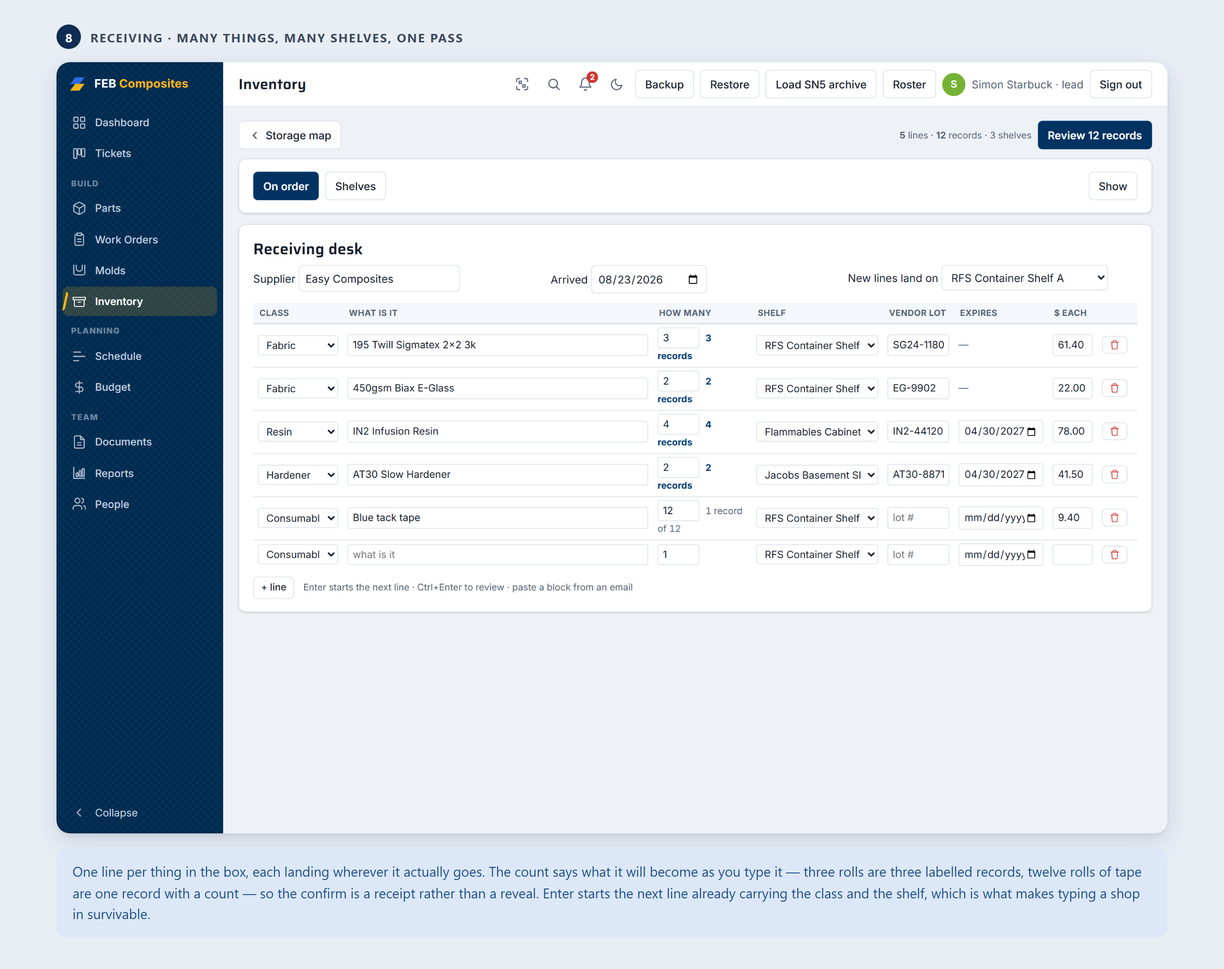
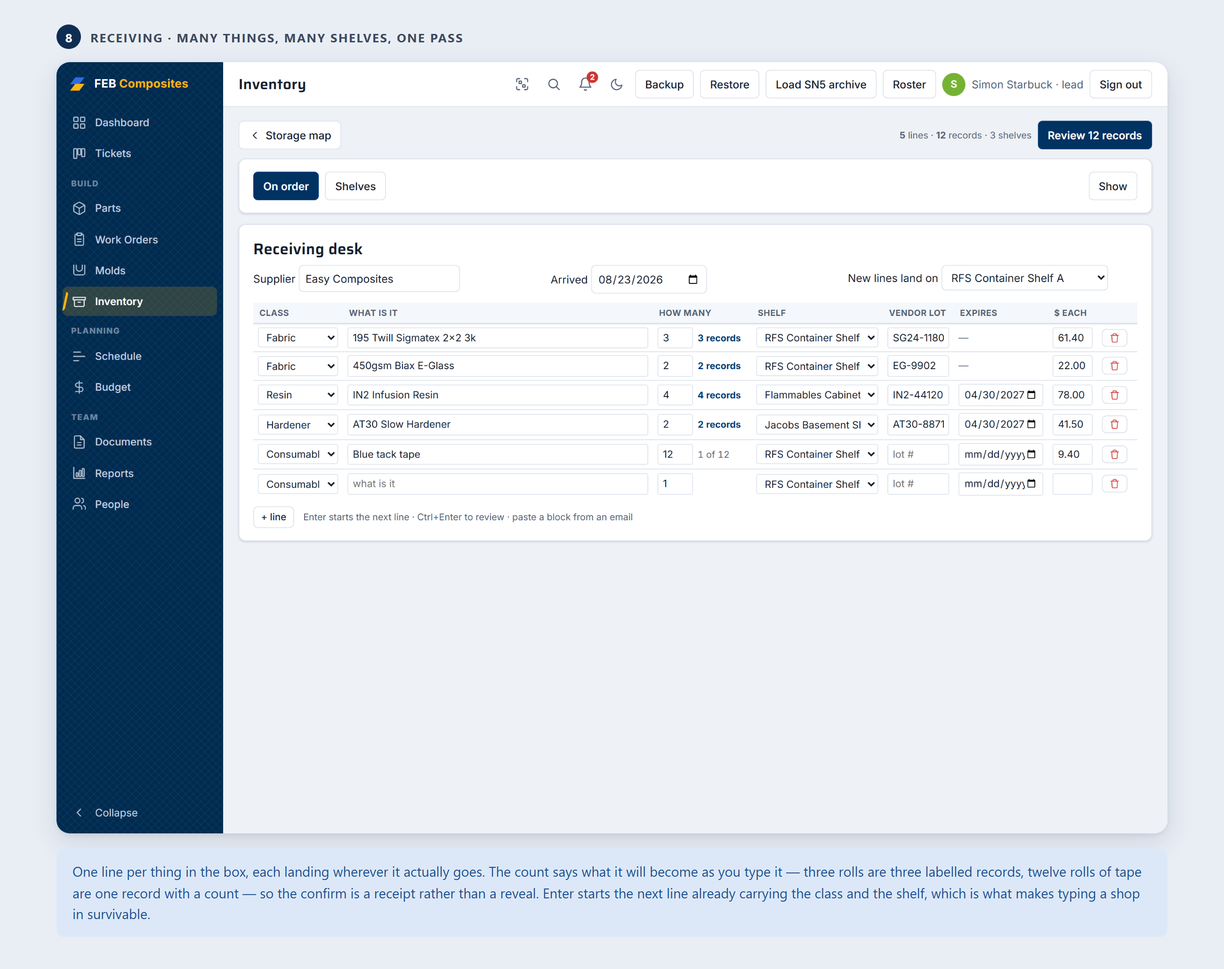
Storage map owns locations; every shelf is a card; HOW MANY fits one line
Four things Simon reported, three of them the same underlying mistake: the map
was showing less than it knew.

**Adding a location moved to the storage map.** + Location sat on all four
Inventory views, which put "make a new shelf" on the items list — a page about
what is stored, not about where — and made it just another button on the map
rather than what the map is for. It is now the map's primary action and appears
nowhere else. The items list says where locations are added instead of offering
a button that would strand you on the wrong page afterwards; the mechanism is a
`newOn` flag on the SHOP class spec, so this is a property of the class rather
than a special case for BIN.

**Every location is a card, and clicking anywhere on it opens the shelf.**
Empty shelves collapsed into a one-line text strip, on the argument that an
empty recently-walked shelf is a fact rather than a card. It cost more than it
saved. The map is the picture of the shop, and a shelf you cannot see on it is
a shelf you forget you own — and the strip was the one place on the page where
clicking the row did nothing, since only the name itself was a target. That is
why "click a location to see its contents" felt broken: on cards it always
worked (verified with elementFromPoint at the card's corners and centre), it
was the strip that did not. Empty shelves are quieter cards now — inset
surface, no shadow — never hidden, and their site header counts them.
[…]

Changed region(s): [[0.2181, 0.3421, 0.9346, 0.5909]]

diff --git a/03 App/app/inventory.js b/03 App/app/inventory.js
@@ -475,13 +475,13 @@ function invCard(bin, bucket) {
      stretched over the whole card by its ::after, and Confirm as a SIBLING
      sitting above it on the z-axis. Two real buttons, both tab-reachable, both
      announced, and no stopPropagation anywhere. */
-  return `<div class="loccard ${alert ? "alert" : ""}" title="${esc(bin.id)}">
+  return `<div class="loccard ${alert ? "alert" : ""} ${n ? "" : "isempty"}" title="${esc(bin.id)}">
     ${warns.map(w => `<div class="lc-warn ${w.cls}">${icon("warning", 12)} ${esc(w.text)}</div>`).join("")}
     <div class="lc-hd">
       <button class="lc-open lc-name" onclick="selectInvRec('${esc(bin.id)}')">${esc(bin.name || bin.id)}</button>
       ${bin.locKind ? `<span class="kind">${esc(bin.locKind)}</span>` : ""}
       ${bin.flam === "Yes" ? `<span class="kind lc-flam" title="Rated for flammables">◆ flam</span>` : ""}</div>
-    <div class="lc-body">${n ? parts.map(([c, l]) => `<span>${c} ${l}</span>`).join(" · ") : '<span class="muted">empty</span>'}</div>
+    <div class="lc-body">${n ? parts.map(([c, l]) => `<span>${c} ${l}</span>`).join(" · ") : '<span class="muted">nothing on it</span>'}</div>
     ${age != null && age <= INV_WALK_STALE_DAYS ? "" :
       `<div class="lc-foot tny muted">${age == null ? "contents never confirmed" : `walked ${age}d ago ⚠`}</div>`}
     <button class="sm lc-act no-print" onclick="invConfirmContents('${esc(bin.id)}')">${icon("check", 13)} Confirm</button>
@@ -515,15 +515,25 @@ function renderInvMap() {
     if (d > INV_WALK_STALE_DAYS) return 2;
     return 3;
   };
+  /* Within one rank, a shelf with something on it comes first. Emptiness is
+     not an attention state — an unwalked empty shelf still needs walking — so
+     it breaks ties rather than overriding the rank, which keeps every shelf on
+     the map without letting a row of empties push the substantive ones down. */
+  const isEmpty = (b) => invBucketCount(idx.by.get(b.id) || invEmptyBucket()) === 0;
   for (const arr of bySite.values()) {
-    arr.sort((a, b) => rank(a) - rank(b) || String(a.name || a.id).localeCompare(String(b.name || b.id)));
+    arr.sort((a, b) => rank(a) - rank(b)
+      || (isEmpty(a) ? 1 : 0) - (isEmpty(b) ? 1 : 0)
+      || String(a.name || a.id).localeCompare(String(b.name || b.id)));
   }
-  /* An empty, recently walked shelf is a fact, not a card. In a real shop this
-     is over half the list, and it costs one line instead of a grid cell each. */
-  const quiet = (s) => bySite.get(s).filter(b => {
-    const d = invDaysSince(b.walkedAt);
-    return invBucketCount(idx.by.get(b.id) || invEmptyBucket()) === 0 && d != null && d <= INV_WALK_STALE_DAYS;
-  });
+  /* Empty shelves used to collapse into a one-line text strip, on the argument
+     that an empty recently-walked shelf is a fact rather than a card. It cost
+     more than it saved. The map is the picture of the shop, and a shelf you
+     cannot see on it is a shelf you forget you own — which is the opposite of
+     what a storage map is for. The strip was also the one place on this page
+     where clicking the row did nothing: only the name itself was a target, so
+     "click a shelf to see what is on it" stopped being true halfway down.
+     Every location is a card. An empty one is quieter, not hidden. */
+  const emptyCount = (s) => bySite.get(s).filter(isEmpty).length;
 
   const filtering = !!(q || flag);
   return `
@@ -542,12 +552,13 @@ function renderInvMap() {
     : !bins.length
     ? `<div class="card">Nothing matches${q ? ` “${esc(view.q)}”` : ""}${flag ? " and that filter" : ""}. <b>${all.length}</b> locations in total.</div>`
     : siteOrder.map(s => {
-        const shown = bySite.get(s).filter(b => !quiet(s).includes(b));
+        const rows = bySite.get(s);
+        const nEmpty = emptyCount(s);
         return `<div class="inv-site">
-          <div class="pgrouphd"><span class="pg-name">${esc(s)}</span><span class="pg-n">${bySite.get(s).length} location${bySite.get(s).length === 1 ? "" : "s"}</span></div>
-          <div class="locgrid">${shown.map(b => invCard(b, idx.by.get(b.id) || invEmptyBucket())).join("")}</div>
-          ${quiet(s).length ? `<div class="locempty"><span class="le-lab">empty</span>${quiet(s).map(b =>
-            `<button class="lc-open" onclick="selectInvRec('${esc(b.id)}')">${esc(b.name || b.id)}</button>`).join("")}</div>` : ""}
+          <div class="pgrouphd"><span class="pg-name">${esc(s)}</span>
+            <span class="pg-n">${rows.length} location${rows.length === 1 ? "" : "s"}</span>
+            ${nEmpty ? `<span class="pg-n">${nEmpty} empty</span>` : ""}</div>
+          <div class="locgrid">${rows.map(b => invCard(b, idx.by.get(b.id) || invEmptyBucket())).join("")}</div>
         </div>`;
       }).join("")}`;
 }
@@ -567,14 +578,20 @@ function invNowhereBar(idx) {
   </div>`;
 }
 
+/* Each view's primary action is the thing that view is ABOUT. + Location used
+   to sit on all four, which put "make a new shelf" on the items list — a page
+   about what is stored, not about where — and left the map, which is the
+   picture of the shelves, without it. Simon: "it makes more sense to have
+   adding locations being on the storage map page." */
 function invToolbar(active) {
   const seg = (id, label) => `<button class="ib ${active === id ? "primary" : ""}" ${active === id ? "" : `onclick="view.invView='${id}';view.mode='list';view.id=null;render()"`}>${label}</button>`;
+  const primary = active === "boards" ? `<button class="primary ib" onclick="newBoard()">+ Board</button>`
+    : active === "map" ? `<button class="primary ib" onclick="newShopRec('items','BIN')">+ Location</button>`
+    : "";
   return `<div class="toolbar no-print">
     ${seg("map", "Storage map")}${seg("items", "Items list")}${seg("lots", "Materials list")}${seg("boards", "Boards")}
     <span style="flex:1"></span>
-    ${active === "boards" ? `<button class="primary ib" onclick="newBoard()">+ Board</button>
-    <button class="ib" onclick="newShopRec('items','BIN')">+ Location</button>`
-      : `<button class="primary ib" onclick="newShopRec('items','BIN')">+ Location</button>`}
+    ${primary}
     <button class="ib" onclick="invReceive('')">${icon("plus", 15)} Receive a delivery</button>
     ${rxResumeChip()}
     <button class="ib" onclick="openLabelBuilder('items')">${icon("print", 15)} Labels</button>

diff --git a/03 App/app/index.html b/03 App/app/index.html
@@ -1713,12 +1713,13 @@
   /* A shelf with something wrong on it leads with what is wrong, and wears a
      spine so it is findable in a grid without reading every card. */
   .loccard.alert { border-left: 3px solid var(--bad); }
-  .locempty { display: flex; flex-wrap: wrap; align-items: center; gap: 6px 14px; padding: 2px 2px 14px;
-    font-size: 12.5px; color: var(--muted); }
-  .locempty .le-lab { font-size: 11px; font-weight: 800; letter-spacing: .05em; text-transform: uppercase; }
-  .locempty .lc-open { font-weight: 500; font-size: 12.5px; color: var(--muted); }
-  .locempty .lc-open::after { position: static; }
-  .locempty .lc-open:hover { color: var(--brand-ink); text-decoration: underline; }
+  /* An empty shelf is quieter than a full one, but it is still a card and still
+     the same click target. It used to collapse into a text strip, which hid the
+     shelves you most need to be reminded you own and broke "click a location to
+     see what is on it" — only the name was hittable there. */
+  .loccard.isempty { background: var(--surface-2); box-shadow: none; }
+  .loccard.isempty .lc-name { font-weight: 600; }
+  .loccard.isempty:hover { background: var(--card); }
   .inv-nowhere-bar { display: flex; align-items: center; gap: 10px; flex-wrap: wrap; padding: 10px 14px;
     margin: 10px 0 4px; border-radius: var(--r-md); border: 1px dashed var(--warn-border);
     background: var(--warn-bg); color: var(--ink); }
@@ -1756,8 +1757,14 @@
   /* The count and what it will become share one cell. A column of its own read
      "1 record" on nine rows in ten — ink spent on something that does not vary
      across rows — and it cost 100px the material name needed more. */
-  .rxgrid .rxc-qty { width: 128px; }
-  .rxgrid .rxc-qty input { width: 54px; margin-right: 8px; }
+  /* The count and its readout share one line. Two things make that fit without
+     the column reclaiming width the material name needs: the readout is kept
+     short ("1 of 3", not "1 record of 3"), and the input is sized for the three
+     digits a delivery line actually carries rather than for a paragraph. The
+     nowrap is what stops the span dropping to a second line — it broke between
+     the input and the text, which is how "3 / 1 record / of 3" happened. */
+  .rxgrid .rxc-qty { width: 128px; white-space: nowrap; }
+  .rxgrid .rxc-qty input { width: 46px; margin-right: 6px; }
   .rxgrid .rxc-bin { width: 170px; }
   .rxgrid .rxc-vendorLot { width: 92px; }
   .rxgrid .rxc-expiresOn { width: 122px; }
@@ -1779,10 +1786,13 @@
      one record, because one line making one record is not news; brand ink the
      moment it diverges, because that IS the news and it is exactly what the
      confirm is about to ask you to approve. */
-  /* Wraps under the count input in a narrow cell rather than propping the
-     column open — "1 record of 12" was single-handedly costing 50px of the
-     material name's width on every row. */
-  .rx-fan { font-size: 12px; color: var(--muted); font-variant-numeric: tabular-nums; }
+  /* Sits BESIDE the count input, always on one line. The column stays narrow
+     on purpose — a wide one costs the material name 50px on every row — so the
+     readout is kept short enough to fit ("1 of 3", not "1 record of 3") and
+     told never to wrap. It wrapped before, and a three-line cell reading
+     "3 / 1 record / of 3" looks broken rather than informative. */
+  .rx-fan { font-size: 12px; color: var(--muted); font-variant-numeric: tabular-nums;
+    white-space: nowrap; }
   .rx-fan.many { color: var(--brand-ink); font-weight: 700; }
   .rx-na { color: var(--faint); }
   .rxgrid tr:focus-within td { background: var(--hover); }
@@ -2587,7 +2597,6 @@
   /* Touch devices get larger tap targets regardless of width. */
   @media (pointer: coarse) {
     .lc-open { min-height: 40px; display: inline-flex; align-items: center; }
-    .locempty .lc-open { min-height: 40px; }
     button, .icon-btn, .hamburger { min-height: 40px; }
     .mtxcell { min-height: 40px; min-width: 40px; }
     /* A rail row is a div[onclick]. A short work-order name over one meta line

diff --git a/03 App/app/receiving.js b/03 App/app/receiving.js
@@ -207,6 +207,7 @@ function rxPaintFan(rid, r) {
   const el = document.getElementById("rxf-" + rid);
   if (!el) return;
   el.textContent = rxFanText(r);
+  el.title = rxFanTitle(r);
   el.className = "rx-fan" + (rxRecordCount(r).records > 1 && rxFanText(r) ? " many" : "");
 }
 function rxRefresh(rid) {
@@ -496,11 +497,29 @@ function rxGridHtml(cols) {
   </table>`;
 }
 
+/* The readout has to fit BESIDE the count input, on one line, in a cell
+   deliberately kept narrow so the material name keeps its width. "1 record of
+   12" did not: it wrapped to three lines and the column read as broken rather
+   than as information. Short forms, and the long sentence moves to the title. */
 function rxFanText(r) {
   if (!String(r.name || "").trim()) return "";   // an unnamed line makes nothing, and should not say otherwise
   const { records, count } = rxRecordCount(r);
   if (rxIsTracked(r.cls)) return records === 1 ? "1 record" : records + " records";
-  return count === "" || Number(count) === 1 ? "1 record" : "1 record of " + count;
+  return count === "" || Number(count) === 1 ? "1 record" : "1 of " + count;
+}
+/* What the short form means, spelled out for hover and for screen readers —
+   "1 of 3" is compact, not self-explaining. */
+function rxFanTitle(r) {
+  if (!String(r.name || "").trim()) return "";
+  const { records, count } = rxRecordCount(r);
+  if (rxIsTracked(r.cls)) {
+    return records === 1
+      ? "One record: this class is tracked one container per record."
+      : `${records} records, one per container: this class is tracked one container per record.`;
+  }
+  return count === "" || Number(count) === 1
+    ? "One record."
+    : `One record carrying a count of ${count}.`;
 }
 
 function rxRowHtml(r, cols) {
@@ -515,7 +534,7 @@ function rxRowHtml(r, cols) {
         aria-label="What is it" onpaste="rxPaste(event,'${r.rid}')"
         onchange="rxUpd('${r.rid}','name',this.value)">`,
     qty: `<input id="rxq-${r.rid}" class="bl-n" inputmode="numeric" value="${esc(r.qty)}" aria-label="How many"
-        oninput="rxLive('${r.rid}')" onchange="rxUpd('${r.rid}','qty',this.value)"><span class="rx-fan ${many ? "many" : ""}" id="rxf-${r.rid}">${esc(rxFanText(r))}</span>`,
+        oninput="rxLive('${r.rid}')" onchange="rxUpd('${r.rid}','qty',this.value)"><span class="rx-fan ${many ? "many" : ""}" id="rxf-${r.rid}" title="${esc(rxFanTitle(r))}">${esc(rxFanText(r))}</span>`,
     bin: `<select id="rxbin-${r.rid}" aria-label="Shelf" onchange="rxUpd('${r.rid}','bin',this.value)">
         <option value="">— none yet —</option>
         ${invActiveBins().map(b => `<option value="${esc(b.id)}" ${r.bin === b.id ? "selected" : ""}>${esc(b.name || b.id)}</option>`).join("")}

diff --git a/03 App/app/shop.js b/03 App/app/shop.js
@@ -76,7 +76,11 @@ const SHOP = {
     classes: [
       { cls: "PNL", label: "Test panel", stage: PNL_STAGE },
       { cls: "JIG", label: "Jig / fixture", stage: ["In use", "Stored", "Retired"] },
-      { cls: "BIN", label: "Storage location", stage: ["Active", "Retired"] },
+      /* newOn: a shelf is created from the storage map, which is the picture of
+         the shelves, not from the list of what is stored on them. The class
+         still exists here — BIN records live in `items`, they filter and list
+         and open like any other — it is only the + button that moves. */
+      { cls: "BIN", label: "Storage location", stage: ["Active", "Retired"], newOn: "inventory map" },
     ],
     stage: { key: "stage", vals: null },   // per class
     list: ["name", "cls", "stage", "location", "laidOn"],
@@ -339,7 +343,15 @@ function renderShopList(tab) {
     ${tiles.map(([n, lab]) => `<div class="stat-tile"><div class="bignum">${n}</div><div class="stat-label">${esc(lab)}</div></div>`).join("")}
   </div>
   <div class="toolbar no-print">
-    ${classes.map(c => `<button class="${c === classes[0] ? "primary" : ""}" onclick="newShopRec('${tab}','${c.cls}')">+ ${esc(c.label)}</button>`).join("")}
+    ${(() => {
+      /* A class whose records are created somewhere better than this list says
+         so instead of offering a button that would strand the user on the wrong
+         page afterwards. */
+      const addable = classes.filter(c => !c.newOn);
+      return addable.map((c, i) => `<button class="${i === 0 ? "primary" : ""}" onclick="newShopRec('${tab}','${c.cls}')">+ ${esc(c.label)}</button>`).join("")
+        + classes.filter(c => c.newOn).map(c =>
+          `<span class="muted tny">${esc(c.label)}s are added on the ${esc(c.newOn)}.</span>`).join("");
+    })()}
     ${D.length ? `<button class="ib" onclick="openLabelBuilder('${spec.coll}')">${icon("print", 15)} Labels</button>` : ""}
   </div>
   <div class="filters no-print">

diff --git a/README.md b/README.md
@@ -60,7 +60,7 @@ up top, then Build, Planning, and Team):
 - **Work Orders:** the manufacturing traveler, as a split view like Parts and Molds. The rail indexes every run grouped by the part it builds, so the tab reads as the part → run → mold hierarchy; each row carries how far through its buy-offs it is, and whether it is blocked or curing. Parts nobody has started show up too, with the button that starts one. Group, sort and filter are yours to set. The pane keeps the whole record in one scroll, Steps first because that is the bench action, but each section is its own card now, headed by a gold-slashed label carrying the same count and attention word the jump bar shows. A hero band under the title answers the five questions people come for: status as a colored dropdown (no edit mode needed), a steps progress bar, due date, mass actual against target, and the engineers' faces. Blockers and cure holds finally look different (a blocker is a person, amber; a hold is the clock, slate), signed steps compress to one line with their history a tap away, and the next step to act on wears a gold NOW badge and the page's only loud buy-off button. Photos are a first-class record: every step row has a camera button and a thumb strip, a Photos section collects everything on the record grouped by step, and declining "sign without a photo?" opens the camera and finishes the buy-off once the photo lands. Reference blocks (BOM, event log) fold behind counted summaries; quality and files fold only when empty; the note thread lives in its own card. Layup stack, BOM, step buy-offs stamped with who signed, blocker steps, and enforced cure holds backed by the datasheets in `resins.js`. Prints to a hand-fillable sheet that is always exactly two pages.
 - **Parts:** the season tracker as a split view: every part down the left, the selected one beside it, each stage a row of steps you click. Arrow keys walk the list; `1`/`2`/`3` advance the stages.
 - **Molds:** a split view of every mold, the rail grouped by the stage each one is at so it reads as the pipeline it is. A mold carries stage, home location, sealing record and parts pulled, plus its mold file — the stack plan it is cut from, with the plans it superseded still openable and marked as such. The mold file is genuinely part of the mold: the rotatable 3D view of the mold sitting inside its stock, the exploded stack and the blanks table are all on the mold's own page rather than a click away on a separate plan record. Only a plan with no mold to be reached through gets a row of its own. One "+ Mold" button covers planning from an STL, from typed dimensions, or recording a mold that has no CAD yet. With nothing selected the pane adds "Needs a hand": molds with no home location, molds machined with no stack plan on file, plans carrying a slicer warning nobody has read, and plans with no mold. Board grade is typed rather than picked from a list, because the rack has always held sheets outside the 30/60 pcf catalogue. The drawing set is a general view (assembled stock with the mold hatched inside it and waterline section contours, plus a mold-only inset), a third-angle three-view, and one placement sheet per board. The planner takes a mold STL, picks boards, splits at the ShopSabre depth limit, prints a numbered cut list, and creates the mold record at "Designed". Blanks are sawn to whole half-inch increments so a person with a tape can cut them, which also puts every cut position on an eighth-inch mark. The cut list opens the board that costs least, scoring both the material spent and the option value destroyed: a big board is the only thing that can hold a big blank, so spending one on small blanks is charged for. When the sawdust settles, "Mark these boards cut" executes the list: cut boards leave the rack, every reusable offcut goes back on it as a new board row with its provenance, and one Undo restores the exact rack.
-- **Inventory:** the storage map, and the shop's answer to "where is the 195 twill". One card per shelf, rack and bin, grouped by site, each showing what is on it and what is wrong with it — expired lots, resin and hardener together, flammables outside the rated cabinet. Search matches a shelf on what is ON it, so a material name leaves the shelves that have some; cards sort so that what is wrong comes first, and the monthly stock walk is one click from the card. Beside the map are three flat lists: items, materials, and **boards** — the tooling rack, one row per size since a board is its length, width, thickness and density, grouped by grade because that is the one axis the packer refuses to substitute across. The individual board records, and their printed labels, are one click deeper. **Receiving** is a page rather than a dialog: a spreadsheet-shaped sheet where a mixed order goes onto many different shelves in one pass, quantity fans out by class as you type (three rolls become three labelled records, a box of tape becomes one with a count), and the CS-011 §6 chemical checks run before anything is written. **Running out** is measured per material rather than per jug — which is what finally makes "we are completely out of MEKP" something the app can say — and turns into a Restock purchase that cancels its own reorder row when the delivery lands. Everything exports to CSV or straight onto the clipboard for a Google Sheet.
+- **Inventory:** the storage map, and the shop's answer to "where is the 195 twill". One card per shelf, rack and bin, grouped by site, each showing what is on it and what is wrong with it — expired lots, resin and hardener together, flammables outside the rated cabinet. Search matches a shelf on what is ON it, so a material name leaves the shelves that have some; cards sort so that what is wrong comes first, clicking anywhere on a card opens that shelf, and the monthly stock walk is one click from the card. Every location shows on the map — an empty shelf is a quieter card, not a hidden one — and new shelves are added here rather than from the items list. Beside the map are three flat lists: items, materials, and **boards** — the tooling rack, one row per size since a board is its length, width, thickness and density, grouped by grade because that is the one axis the packer refuses to substitute across. The individual board records, and their printed labels, are one click deeper. **Receiving** is a page rather than a dialog: a spreadsheet-shaped sheet where a mixed order goes onto many different shelves in one pass, quantity fans out by class as you type (three rolls become three labelled records, a box of tape becomes one with a count), and the CS-011 §6 chemical checks run before anything is written. **Running out** is measured per material rather than per jug — which is what finally makes "we are completely out of MEKP" something the app can say — and turns into a Restock purchase that cancels its own reorder row when the delivery lands. Everything exports to CSV or straight onto the clipboard for a Google Sheet.
 - **Schedule:** the production schedule, two views behind a toggle: the season as a station-by-week grid ("when is the ShopSabre free" is one horizontal scan) and the week by day, subteam and person.
 - **Budget:** purchases through Submitted, Ordered and Reimbursed, with a receipt-scan button on phones.
 - **Documents:** datasheets, CS standards and printables in one filterable shelf, plus pinned Google Docs. Paste a Drive URL anywhere in the app and it resolves the title and offers a preview, with no Google sign-in.

diff --git a/SESSION-STATE.md b/SESSION-STATE.md
@@ -20,10 +20,9 @@ git log -p --follow -- SESSION-STATE.md
 
 ## Now
 
-**Unshipped: everything since `50cadbe`.** The Molds/Inventory pass and the
-stat-tile/design-sync follow-ups are all committed to main and **not deployed**
-at time of writing. Check whether a later Recent log entry says otherwise
-before assuming live matches main. Suites were green at each commit.
+**Live matches main.** The Molds/Inventory pass, the stat-tile states and the
+Inventory/Receiving follow-ups are all on main and deployed, each verified by
+curling the changed file off the live host rather than trusting the CLI.
 
 - Density is free entry through `canonDensity()` in `core.js`, not a `<select>`.
   Board and plan density stay numbers, mold density stays a string,
@@ -39,6 +38,17 @@ before assuming live matches main. Suites were green at each commit.
 - `.bignum` now carries `.bad`/`.warn`/`.ok` states in both the app CSS and
   `components.css`, mirroring the dashboard's `.bnum` so one word means one
   colour everywhere. The style guide was rebuilt and the design sync ran.
+- **Every storage location is a card on the map**, empty ones included — the
+  collapsed `.locempty` strip is gone. It hid the shelves you most need
+  reminding you own, and it was the one place on that page where clicking the
+  row did nothing. `+ Location` moved off the items list onto the map; the
+  `newOn` flag in a SHOP class spec is what suppresses a class's + button on a
+  list and names where it lives instead.
+- The receiving desk's HOW MANY readout shares one line with its input.
+  It must stay short — "1 of 3", not "1 record of 3" — because the column is
+  deliberately narrow to protect the material-name width, and `test_receiving_ui`
+  fails below a 150px name input at 1201px. Widening that column is what breaks
+  it; the space came out of an oversized count input instead.
 
 **Open finding, reported not done: 25 documented classes have no rules behind
 them.** Validating `conventions.md` against the built CSS turned up the whole
@@ -234,6 +244,12 @@ They are built and tested against the emulator.
 
 Five sessions, newest first. Older entries live in `git log`, not here.
 
+**2026-08-25 (latest) — storage map, and the receiving count column.** Adding a
+location moved from the items list to the map, where the shelves are. Empty
+shelves stopped collapsing into a text strip: they are quieter cards now, so
+every location is visible and clickable anywhere, which the strip was not. The
+HOW MANY readout was wrapping to three lines and reads "1 of 12" on one line.
+
 **2026-08-25 (later) — stat-tile states, and a design sync.** Simon asked why
 the warn colour never showed: `.bignum` set its own colour and won on source
 order, so tiles had been passing a state class for a year and staying navy.
@@ -264,11 +280,3 @@ what finally lets the CS-011 §6 resin/hardener check fire at all. Reorder moved
 off the jug and onto the material, because the old model literally could not
 express "we are completely out". Export as CSV/TSV, since a team that doubts it
 can get its data out keeps a shadow spreadsheet.
-
-**2026-08-21 — the repo builds and tests on Windows.** Simon develops on both
-machines from here on. Three portability bugs, all found by running the suite
-on a bare Windows box: a CRLF checkout defeated `test_app.mjs`'s strict-mode
-strip (fixed durably by `.gitattributes`; `git add --renormalize .` produced
-zero churn), and two bare-path-to-`file://` bugs made every browser suite print
-SKIPPED and exit 0 *with* Playwright installed — now `pathToFileURL()`.
-`SETUP.md` was written this session as the new-machine walkthrough.

diff --git a/03 App/app/README.md b/03 App/app/README.md
@@ -409,12 +409,23 @@ The map is filtered, not a wall. A search box matches a shelf on its own name,
 site or kind **or** on the name, vendor lot or material type of anything on it,
 so "195 twill" leaves the shelves that actually have some; the four summary
 chips are real filters. Cards sort alerts first, then never-walked, then stale,
-then by name — a fixed order, because the map's job is to put what is wrong in
-front of you. A shelf with a bad warning leads with the warning and wears a red
-spine; an empty, recently walked shelf drops to a one-line strip, which in a
-real shop is most of the list. **Confirm contents** is on the card, so CS-011
-§7.1's monthly walk is one click from the map. Everything unhoused sits in a bar
-above the shelves.
+then — within a rank — shelves with something on them before empty ones, then by
+name. A fixed order, because the map's job is to put what is wrong in front of
+you. A shelf with a bad warning leads with the warning and wears a red spine.
+
+**Every location is a card, and clicking anywhere on it opens the shelf.** Empty
+shelves used to collapse into a one-line text strip on the argument that in a
+real shop they are most of the list. That cost more than it saved: the map is
+the picture of the shop, and a shelf you cannot see on it is a shelf you forget
+you own. The strip was also the one place on the page where clicking the row did
+nothing — only the name itself was a target — so "click a location to see what is
+on it" stopped being true halfway down. An empty shelf is a quieter card now
+(inset surface, no shadow), never a hidden one, and its site header counts them.
+
+New shelves are created here, with **+ Location**, rather than from the items
+list: the map is the picture of the shelves, the items list is about what sits
+on them. **Confirm contents** is on the card, so CS-011 §7.1's monthly walk is
+one click from the map. Everything unhoused sits in a bar above the shelves.
 
 ![A shelf's contents page](../design/inventory-contents-mockup-20260825.png)
 

diff --git a/.design-sync/conventions.md b/.design-sync/conventions.md
@@ -37,7 +37,7 @@ The base layer styles `body` directly (`background: var(--canvas)`, `color: var(
 | Avatars | `.avatar`, grouped in `.avatar-stack`. |
 | Receiving | `.rxhead` (the once-per-delivery fields), `table.sub.rxgrid` (the entry sheet — the budget line grid one size up, fixed layout, sticky header, one card per line on a phone), `.rx-fan` (+ `.many`) for the live "3 records" readout, `.rx-na` for a column a class does not have, `.rxfoot`, `.rxbusy` (someone else is receiving right now), `.rxline`. Column widths hang off `.rxc-<field>` on each cell. |
 | Export | `.xgroup` > `.xg-hd` > `.xg-name` for one offered dataset; `.copyout` is the last-resort textarea for a browser that refuses the clipboard. |
-| Storage map | `.loccard` (+ `.alert`) with `.lc-open` as a stretched-link button on the name and `.lc-act` as a sibling above it; `.locempty` collapses empty, recently walked shelves to one line; `.inv-nowhere-bar` sits above the shelves. |
+| Storage map | `.loccard` (+ `.alert`, + `.isempty` for a shelf with nothing on it) with `.lc-open` as a stretched-link button on the name — its `::after` covers the whole card, so a click anywhere opens it — and `.lc-act` as a sibling above it on the z-axis; `.inv-nowhere-bar` sits above the shelves. |
 | Search results | `.gsr` is a grid of two sibling buttons — `.gsr-go` (`.gsr-name` inside) and `.gsr-where`, the shelf chip. |
 | Text | `.muted`, `.tny`, `.nocaps` (opt a span out of an uppercase label or `h3`), `.unread-dot` (the gold new-activity pip), `.w110` (a 110px width utility for a narrow cell). |
 
